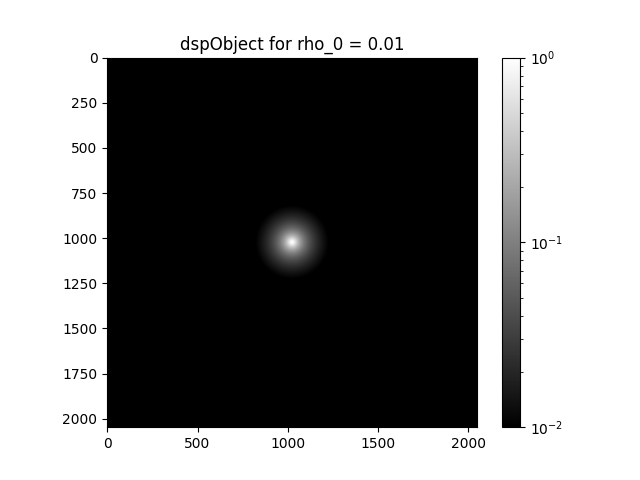
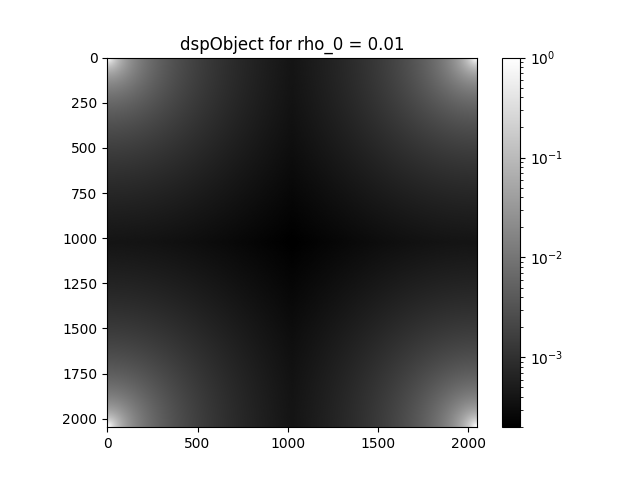
Wrapped up this week work. Issue in joint estimation Jmap criterion computation.

diff --git a/Scripts/main.py b/Scripts/main.py
@@ -4,8 +4,7 @@ import scipy as sp
 
 from plotLib import saveImplot, saveImsubplots, savePlot
 
-# Define the path to save figures
-SAVE_PATH = 'IO-PTI/outputs/' # Q: Why do we need to use the absolute path ?
+# Define the path to save figures in plotLib SAVE_PATH = 'IO-PTI/outputs/' # Q: Why do we need to use the absolute path ?
 
 
 
@@ -16,14 +15,7 @@ SAVE_PATH = 'IO-PTI/outputs/' # Q: Why do we need to use the absolute path ?
 nPoints = 2048 # Number of points
 sampling_rate = 1  # Sampling rate
 freq_vector = sp.fft.fftfreq(nPoints, d=1/sampling_rate) # Frequency vector for FFT, Numpy array
-freq_vector = sp.fft.fftshift(freq_vector) # perform a fftshift
 xFreq_array, yFreq_array = np.meshgrid(freq_vector, freq_vector) # Generating 2D array of frequencies from freq_vector
-
-
-### Computes the distance and plot it for quality check. Frequencies increases from the center of the figure
-# distCartesian = np.sqrt(xFreq_array**2 + yFreq_array**2)
-# saveImplot(distCartesian, "Cartesian distance", filename="cartesian_distance", save=False, plot=True)
-
 
 
 ## Convert Cartesian (X, Y) to Polar (r, theta)
@@ -32,8 +24,8 @@ theta = np.arctan2(xFreq_array, yFreq_array)  # Angle in radians
 
 
 ### Plot modulus and phase for quality check
-# saveImplot(rho, "Polar modulus", filename="polar_modulus", save=False, plot=True)
-# saveImplot(theta, "Polar phase", filename="polar_phase", save=False, plot=True)
+saveImplot(rho, "Polar modulus", filename="polar_modulus", save=True, plot=True)
+saveImplot(theta, "Polar phase", filename="polar_phase", save=True, plot=True)
 
 
 ## Computes the dsp of the object
@@ -42,13 +34,13 @@ k = 1
 rho_0 = 0.01
 
 dspObject = k /(1 + pow(rho/rho_0,p))
-profile = dspObject[1024,512:] # Profile of the radial distance
-freqProfile = freq_vector[512:] # Profile of the frequency vector
+profile = dspObject[0,:512] # Profile of the radial distance
+freqProfile = freq_vector[:512] # Profile of the frequency vector
 
 
 ### Plot dspObject for quality check
-# savePlot(freqProfile, profile, "Profile of the radial distance", filename="profile_radial_distance", save=False, plot=True, logX=True, logY=True)
-# saveImplot(dspObject, f"dspObject for rho_0 = {rho_0}", filename=f"dspObject for rho_0 = {rho_0}", save=False, plot=True, logScale=True)
+savePlot(freqProfile, profile, "Profile of the radial distance", filename="profile_radial_distance", save=True, plot=True, logX=True, logY=True)
+saveImplot(dspObject, f"dspObject for rho_0 = {rho_0}", filename=f"dspObject for rho_0 = {rho_0}", save=True, plot=True, logScale=True)
 
 
 ## Generate the random variable
@@ -57,14 +49,14 @@ tfObject = np.sqrt(dspObject) * np.random.randn(nPoints, nPoints) # Equivalently
 
 
 ## Derive the object
-oObject = np.real(sp.fft.ifft2(sp.fft.ifftshift(tfObject)))
+oObject = np.real(sp.fft.ifft2(tfObject))
 oShapes = oObject.shape
 oObject = oObject[:int(oShapes[0]/2),:int(oShapes[1]/2)] # Select first quadrant, int is equivalent to floor
 oObject = oObject - np.min(oObject) # Remove the offset
 
 
 ### Plot oObject for quality check
-# saveImplot(oObject, f"Object for rho_0 = {rho_0}", filename=f"Object for rho_0 = {rho_0}", save=False, plot=True, logScale=False)
+saveImplot(oObject, f"Object for rho_0 = {rho_0}", filename=f"Object for rho_0 = {rho_0}", save=True, plot=True, logScale=False)
 
 
 
@@ -84,75 +76,27 @@ with fits.open(filename) as hdul:
 
 
 ### Plot psfs for visual check
-# saveImsubplots(data, ["PSF 1", "PSF 2", "PSF 3"], filename="psfs", save=False, plot=True)
+saveImsubplots(data, ["PSF 1", "PSF 2", "PSF 3"], filename="psfs", save=True, plot=True)
 
 
 
 
 
 # Bayesian estimation : Derive alpha from 2 extreme PSF and criterion
-psf_1, psf_2, psf_3 = data[0], data[1], data[2]
-
-
-
-# ## Define PSF
-# alpha = 0.3
-# psf = alpha * psf_1 + (1 - alpha) * psf_3
-
-
-# ### Plot psf for quality check
-# saveImplot(psf, f"Resulting psf for alpha = {alpha}", filename=f"Resulting psf for alpha = {alpha}", save=False, plot=True)
-
-
-
-# ## Joint estimation
-# # from scipy.signal import convolve2d
-
-# simulatedObject = oObject
-# psfPadded = np.pad(psf, (256, 256), 'wrap') # Use the padded psf for the Fourier transform
-# simulatedImage = sp.fft.ifft2(sp.fft.fft2(simulatedObject) * sp.fft.fft2(psfPadded)).real # Q: Should the psf be fftshifted here ?
-# simulatedImage[:256, :256]
-# noise = 0.01 * np.max(simulatedObject) * np.random.randn(*simulatedImage.shape) # Noise corresponding roughly to photon noise for an average of 10 000 photons/pixels
-# simulatedImageNoised = simulatedImage + noise
-
-
-# ### Plot simulated object, noise, image for quality check
-# saveImsubplots([simulatedObject, simulatedImage, noise, simulatedImageNoised], ["Object", "Image", "Noise", "Noised Image"], filename="simulated_object_image_noisedImage", save=True, plot=True)
-
-
-
-# ## Compute the noise and signal DSPs
-# dspNoise = sp.fft.ifft2(sp.fft.fft2(noise) * sp.fft.fft2(noise).conj).real # Correlation therorem
-# dspObject = sp.fft.ifft2(sp.fft.fft2(simulatedObject) * sp.fft.fft2(simulatedObject).conj).real # Correlation therorem
-
-
-
-# ## Compute the Jjmap criterion and plot it
-# N =  simulatedImage.shape[0] * simulatedImage.shape[1] # Number of pixels
-# dspNoise = dspNoise.mean() # Average noise power, the noise is white so it is constant, one could have taken dspNoise[0,0]
-
-# Jmap = (
-#     0.5 * N**2 * np.log(dspNoise) +
-#     0.5 * np.sum(np.log(dspObject)) +
-#     0.5 * np.sum(
-#         np.abs(sp.fft.fft2(simulatedImageNoised) - sp.fft.fft2(simulatedImage))**2 /
-#         dspObject /
-#         (np.abs(sp.fft.fft2(psf))**2 + dspNoise / dspObject)
-#     )
-# )
-
 from functions import JmapCriterion2psf
 from tqdm.auto import tqdm
 
-xAxis = np.linspace(0, 1, 100) # Define the alpha axis
-yAxis = np.zeros(100) # Define the Jmap axis
+psf_1, psf_2, psf_3 = data[0], data[1], data[2]
+N = 20
+xAxis = [i /(N + 1) for i in range(N + 1)] # Define the alpha axis
+yAxis = np.zeros(N + 1) # Define the Jmap axis
 
-pbar = tqdm(desc="Jmap computation : ", total=len(xAxis))
+pbar = tqdm(desc="Jmap computation", total=100, unit_scale=True)
 
 for i, alpha in enumerate(xAxis):
-    yAxis[i] = JmapCriterion2psf(oObject, psf_1, psf_3, alpha, verbose=False)
-    pbar.update(len(xAxis))
+    yAxis[i] = JmapCriterion2psf(oObject, dspObject, psf_1, psf_3, alpha, verbose=True if i==1 else False)
+    pbar.update(round(100 /(N + 1)))
 pbar.close()
 
 ### Plot Jmap for quality check
-savePlot(xAxis, yAxis, "Jmap criterion", filename="Jmap_criterion", save=False, plot=True, logX=False, logY=False)
+savePlot(xAxis, yAxis, "Jmap criterion", filename="Jmap_criterion", save=True, plot=True, logX=False, logY=False)

diff --git a/Scripts/functions.py b/Scripts/functions.py
@@ -11,7 +11,7 @@ from plotLib import saveImsubplots, saveImplot
 import numpy as np
 import scipy as sp
 
-def JmapCriterion2psf(oObject, psf_1, psf_2, alpha, verbose=False):
+def JmapCriterion2psf(oObject, dspObject, psf_1, psf_2, alpha, verbose=False):
     """Performs the joint estimation of the object and the PSF using the Jmap criterion. The criterion is computed for the given object, the two PSFs and the alpha value. The simulated image is computed using the object and the PSF. The noise is added to the simulated image. The noise and signal DSPs are computed. The Jmap criterion is computed and returned.
 
     Args:
@@ -40,7 +40,7 @@ def JmapCriterion2psf(oObject, psf_1, psf_2, alpha, verbose=False):
 
     psfPadded = np.pad(psf, (256, 256), 'wrap') # Use the padded psf for the Fourier transform
     simImage = sp.fft.ifft2(sp.fft.fft2(oObject) * sp.fft.fft2(psfPadded)).real # Q: Should the psf be fftshifted here ?
-    simImage[:256, :256]
+    # simImage[:512, :512]
     noise = 0.01 * np.max(oObject) * np.random.randn(*simImage.shape) # Noise corresponding roughly to photon noise for an average of 10 000 photons/pixels
     simImageNoised = simImage + noise
 
@@ -53,8 +53,13 @@ def JmapCriterion2psf(oObject, psf_1, psf_2, alpha, verbose=False):
 
     ## Compute the noise and signal DSPs
     dspNoise = sp.fft.ifft2(sp.fft.fft2(noise) * sp.fft.fft2(noise).conj()).real # Correlation therorem
-    dspObject = sp.fft.ifft2(sp.fft.fft2(oObject) * sp.fft.fft2(oObject).conj()).real # Correlation therorem
+    # dspObject = sp.fft.ifft2(sp.fft.fft2(oObject) * sp.fft.fft2(oObject).conj()).real # Correlation therorem
+    dspObject = dspObject[:1024,:1024] # The DSP of the object is known
+    
 
+    ### Plot simulated object, noise, image for quality check
+    if verbose:
+        saveImsubplots([dspNoise, dspObject], ["DSP of the synthetic noise", "DSP of the synthetic object"], filename="dsp_noise_and_object", columnNumber=2, save=True, plot=True, logScale=True)
 
 
     ## Compute the Jjmap criterion and plot it
@@ -65,7 +70,7 @@ def JmapCriterion2psf(oObject, psf_1, psf_2, alpha, verbose=False):
         0.5 * N**2 * np.log(dspNoise) +
         0.5 * np.sum(np.log(dspObject)) +
         0.5 * np.sum(
-            np.abs(sp.fft.fft2(simImageNoised) - sp.fft.fft2(simImage))**2 /
+            np.abs(sp.fft.fft2(simImageNoised) - sp.fft.fft2(simImage))**2 / # Equivalent to np.abs(sp.fft.fft2(noise))**2
             dspObject /
             (np.abs(sp.fft.fft2(psfPadded))**2 + dspNoise / dspObject) # Q: Is there an impact of using the padded PSF here ?
         )

diff --git a/Scripts/plotLib.py b/Scripts/plotLib.py
@@ -11,7 +11,7 @@ from math import ceil
 from matplotlib import pyplot as plt
 from matplotlib.colors import LogNorm
 
-SAVE_PATH = "./"
+SAVE_PATH = 'IO-PTI/outputs/'
 
 def savePlot(x, y, title, filename="output", save=False, plot=True, logX=False, logY=False):
     """Save and plot a single serie with plt.plot()
